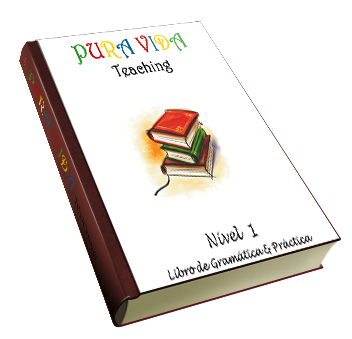
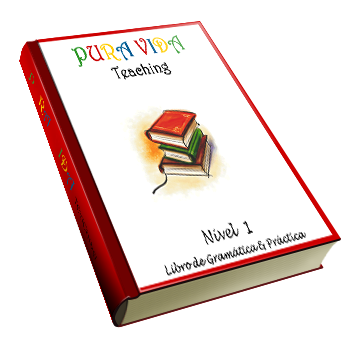
changes books

diff --git a/templates/puravida/css/main.css b/templates/puravida/css/main.css
@@ -112,6 +112,7 @@ input[type="checkbox"]{display:inline-block;margin:4px 0 0}
 .libro img{position:relative;top:0;-webkit-transition:all 0.3s ease;-moz-transition:all 0.3s ease;-o-transition:all 0.3s ease;-ms-transition:all 0.3s ease;transition:all 0.3s ease}
 .libro:after{background:url("../img/ribbon-book.png");width:324px;height:134px;content:url("../img/ribbon-book.png");position:absolute;z-index:2;top:175px;left:75px}
 .libro:hover img{top:-10px}
+.libro-en:after{background:url("../img/ribbon-book-en.png");content:url("../img/ribbon-book-en.png")}
 .main{background:#fff;padding:.5em 1em;-webkit-border-radius:5px;border-radius:5px;-webkit-box-shadow:0 0 8px rgba(0,0,0,0.5);box-shadow:0 0 8px rgba(0,0,0,0.5);margin-top:4em;color:#5e636d;position:relative;z-index:2;}
 .img-home{width:500px;height:324px;position:relative;margin:0 auto;border:2px solid #00adee;}
 .img-home img{width:100%}

diff --git a/templates/puravida/index.php b/templates/puravida/index.php
@@ -51,7 +51,7 @@ $doc->addStyleSheet('templates/'.$this->template.'/css/main.css');
             <div class="inner">
                 
                 <a href="<?php echo $this->baseurl ?>" class="logo"></a>
-                <a href="skype:p8t3ici8?chat" class="skype-header"><span>Online Classes!</span><i class="icon-skype"></i> </a>
+                <a href="skype:PuraVidaTeaching?chat" class="skype-header"><span>Online Classes!</span><i class="icon-skype"></i> </a>
 
             </div>
         </header>
@@ -102,7 +102,7 @@ $doc->addStyleSheet('templates/'.$this->template.'/css/main.css');
                         <a href="#" title="Facebook" class="facebook"><i class="icon icon-facebook"></i></a>
                         <a href="#" title="Google Plus" class="google"><i class="icon icon-google-plus"></i></a>
                         <a href="#" title="Youtube" class="youtube"><i class="icon icon-youtube"></i></a>
-                        <a href="skype:p8t3ici8?chat" title="Skype" class="skype"><i class="icon icon-skype"></i></a>
+                        <a href="skype:PuraVidaTeaching?chat" title="Skype" class="skype"><i class="icon icon-skype"></i></a>
                         <a href="http://plataforma.puravidateaching.com/" title="Start Classes" class="classes" target="_blank"><i class="icon icon-classes"></i></a>
                     </div>
                 </div>
